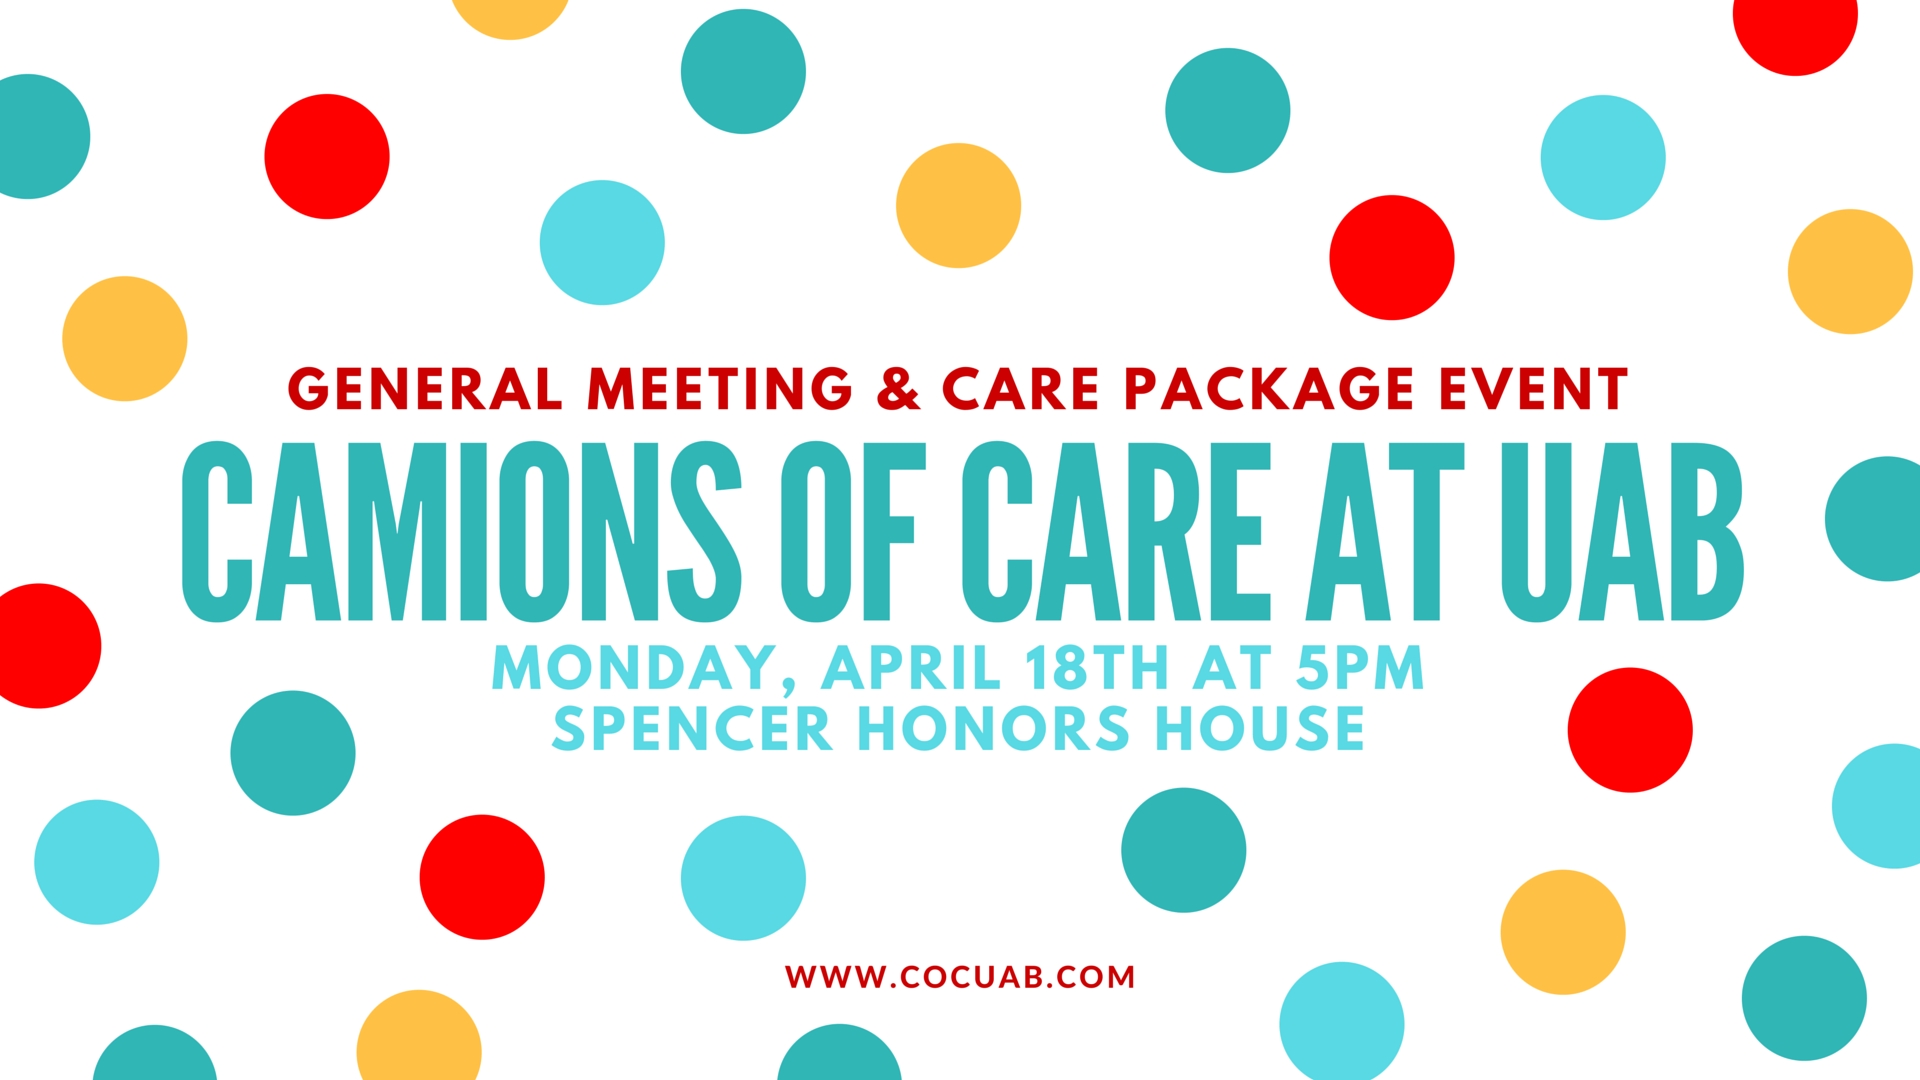
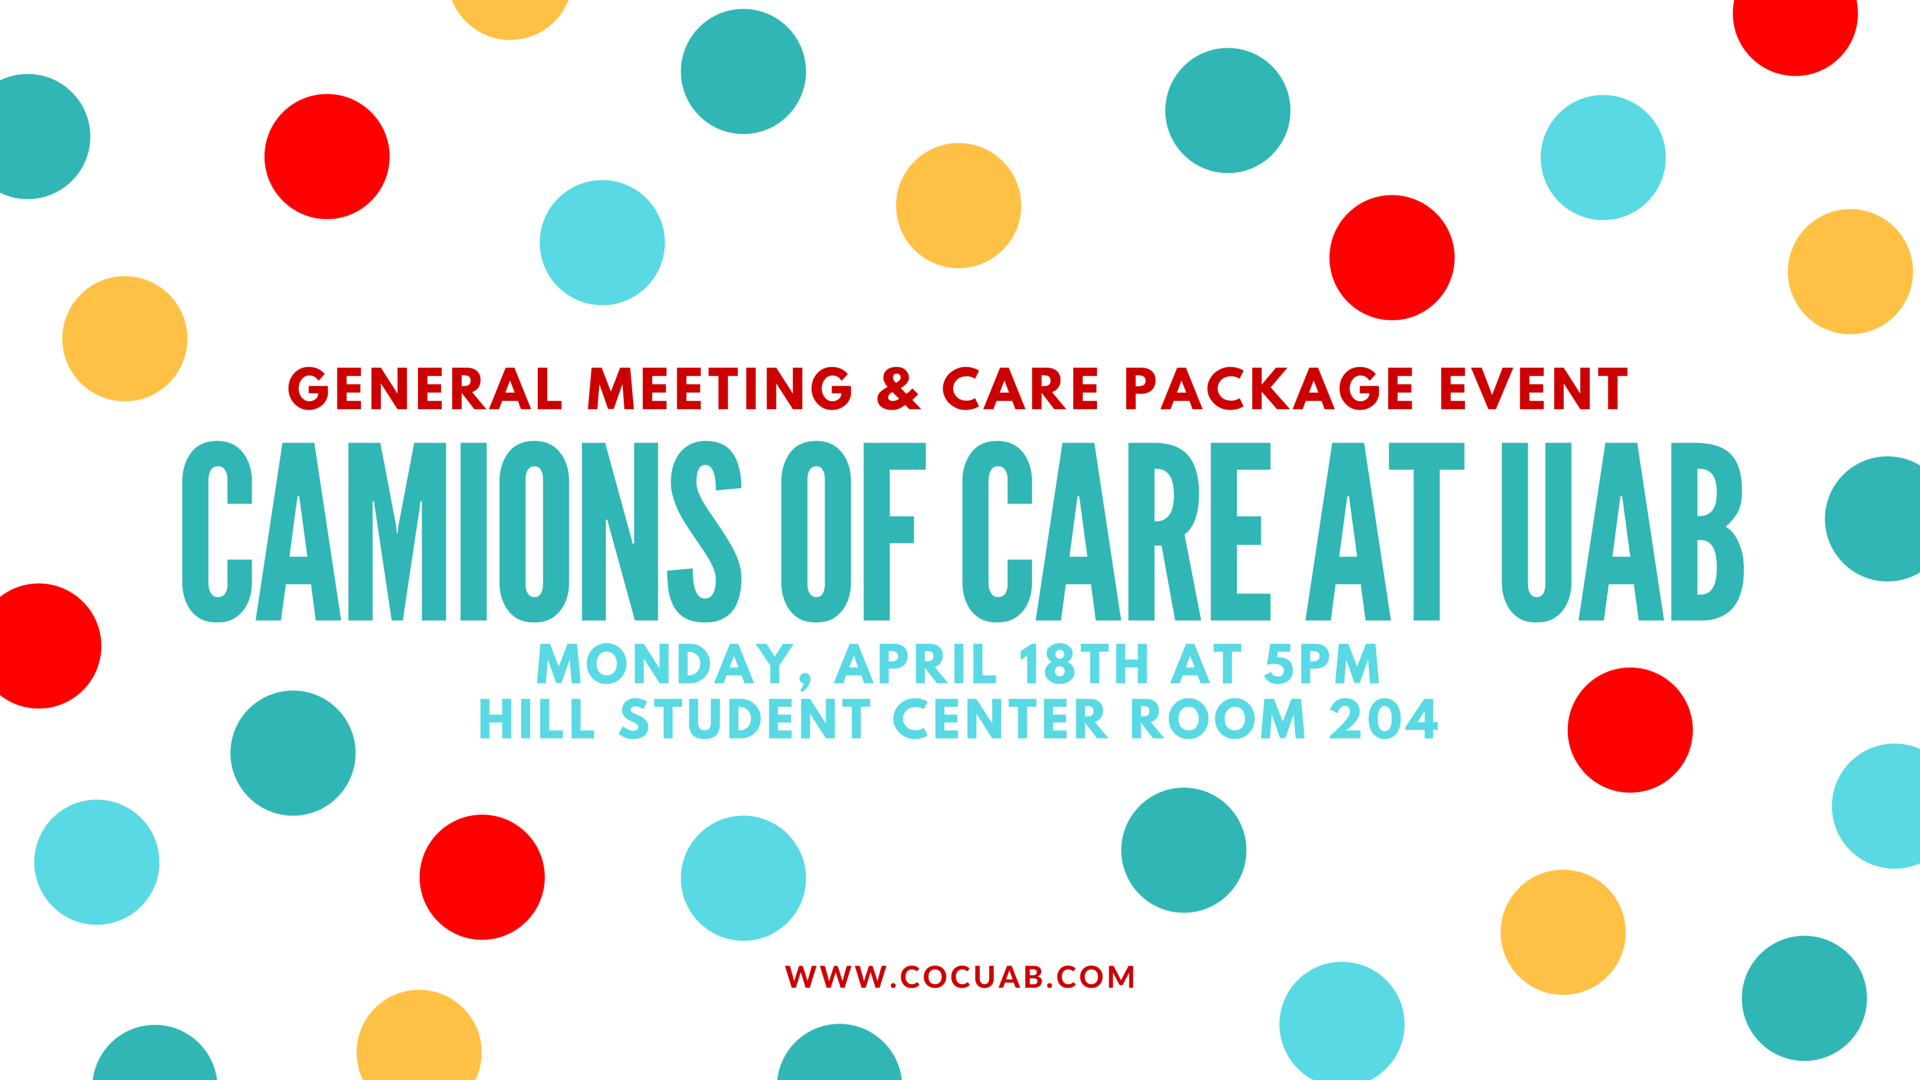
go

Changed region(s): [[0.25, 0.5806, 0.75, 0.7028]]

diff --git a/involve.html b/involve.html
@@ -98,7 +98,7 @@
     <div class="row info-sect">
         <div class="col-sm-12 col-lg-12 text-center">
             <h5 class="info-title">Upcoming Events</h5>        
-<h2>Last General Meeting of Spring 2016</h2><h3><b>April 18th, 2016  |  5PM at Spencer Honors House</b></h3>
+<h2>Last General Meeting of Spring 2016</h2><h3><b>April 18th, 2016  |  5PM at Hill Student Center Room 204/206</b></h3>
 	<p>
 	<b>DATE CHANGED TO MONDAY, APRIL 18TH DUE TO BAD WEATHER</b>
 	<br>Come join us at our last general meeting of the semester! We will be going over our plans for the next year as well as have our second care package construction event.<br>Please bring your friends and be ready to make lots of care packages that will be donated to local women's shelters!
